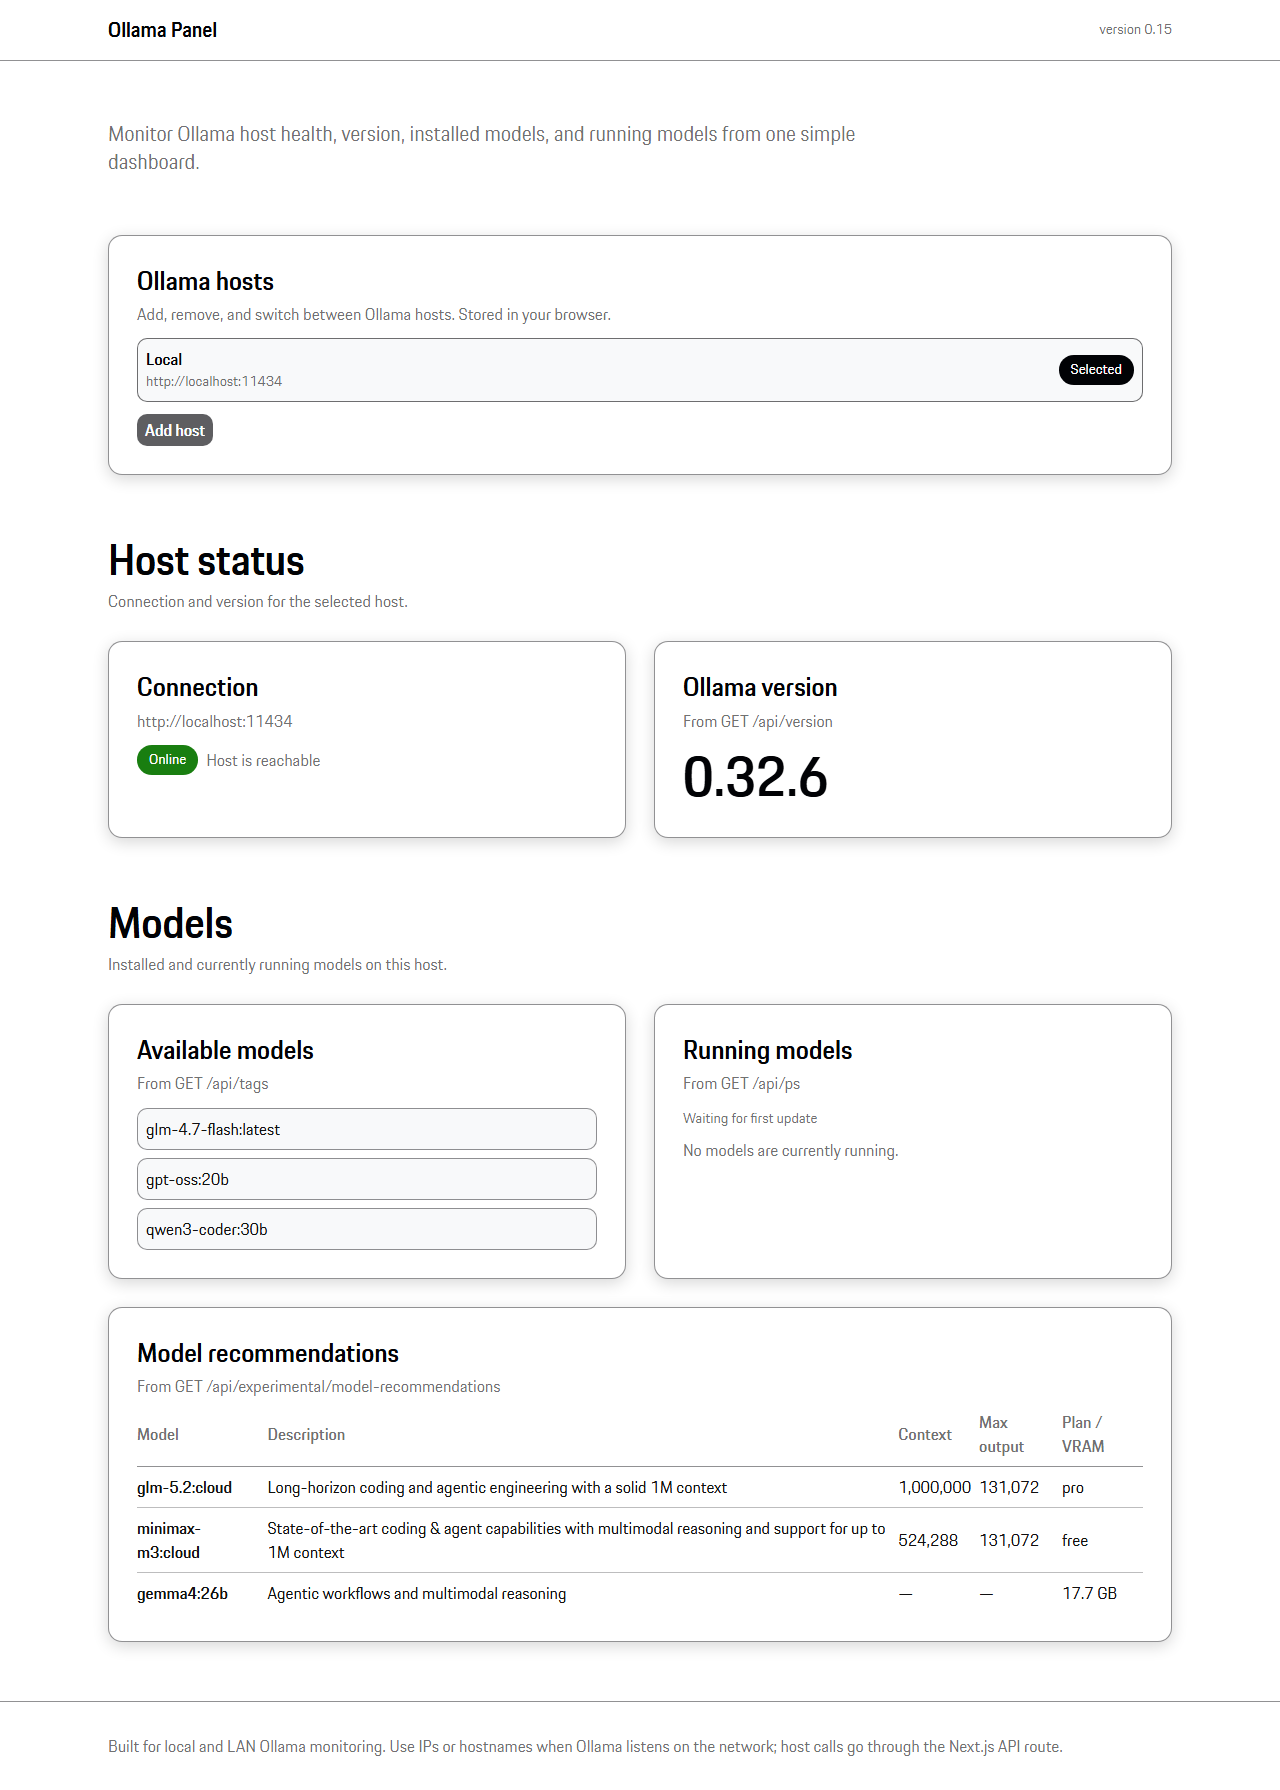
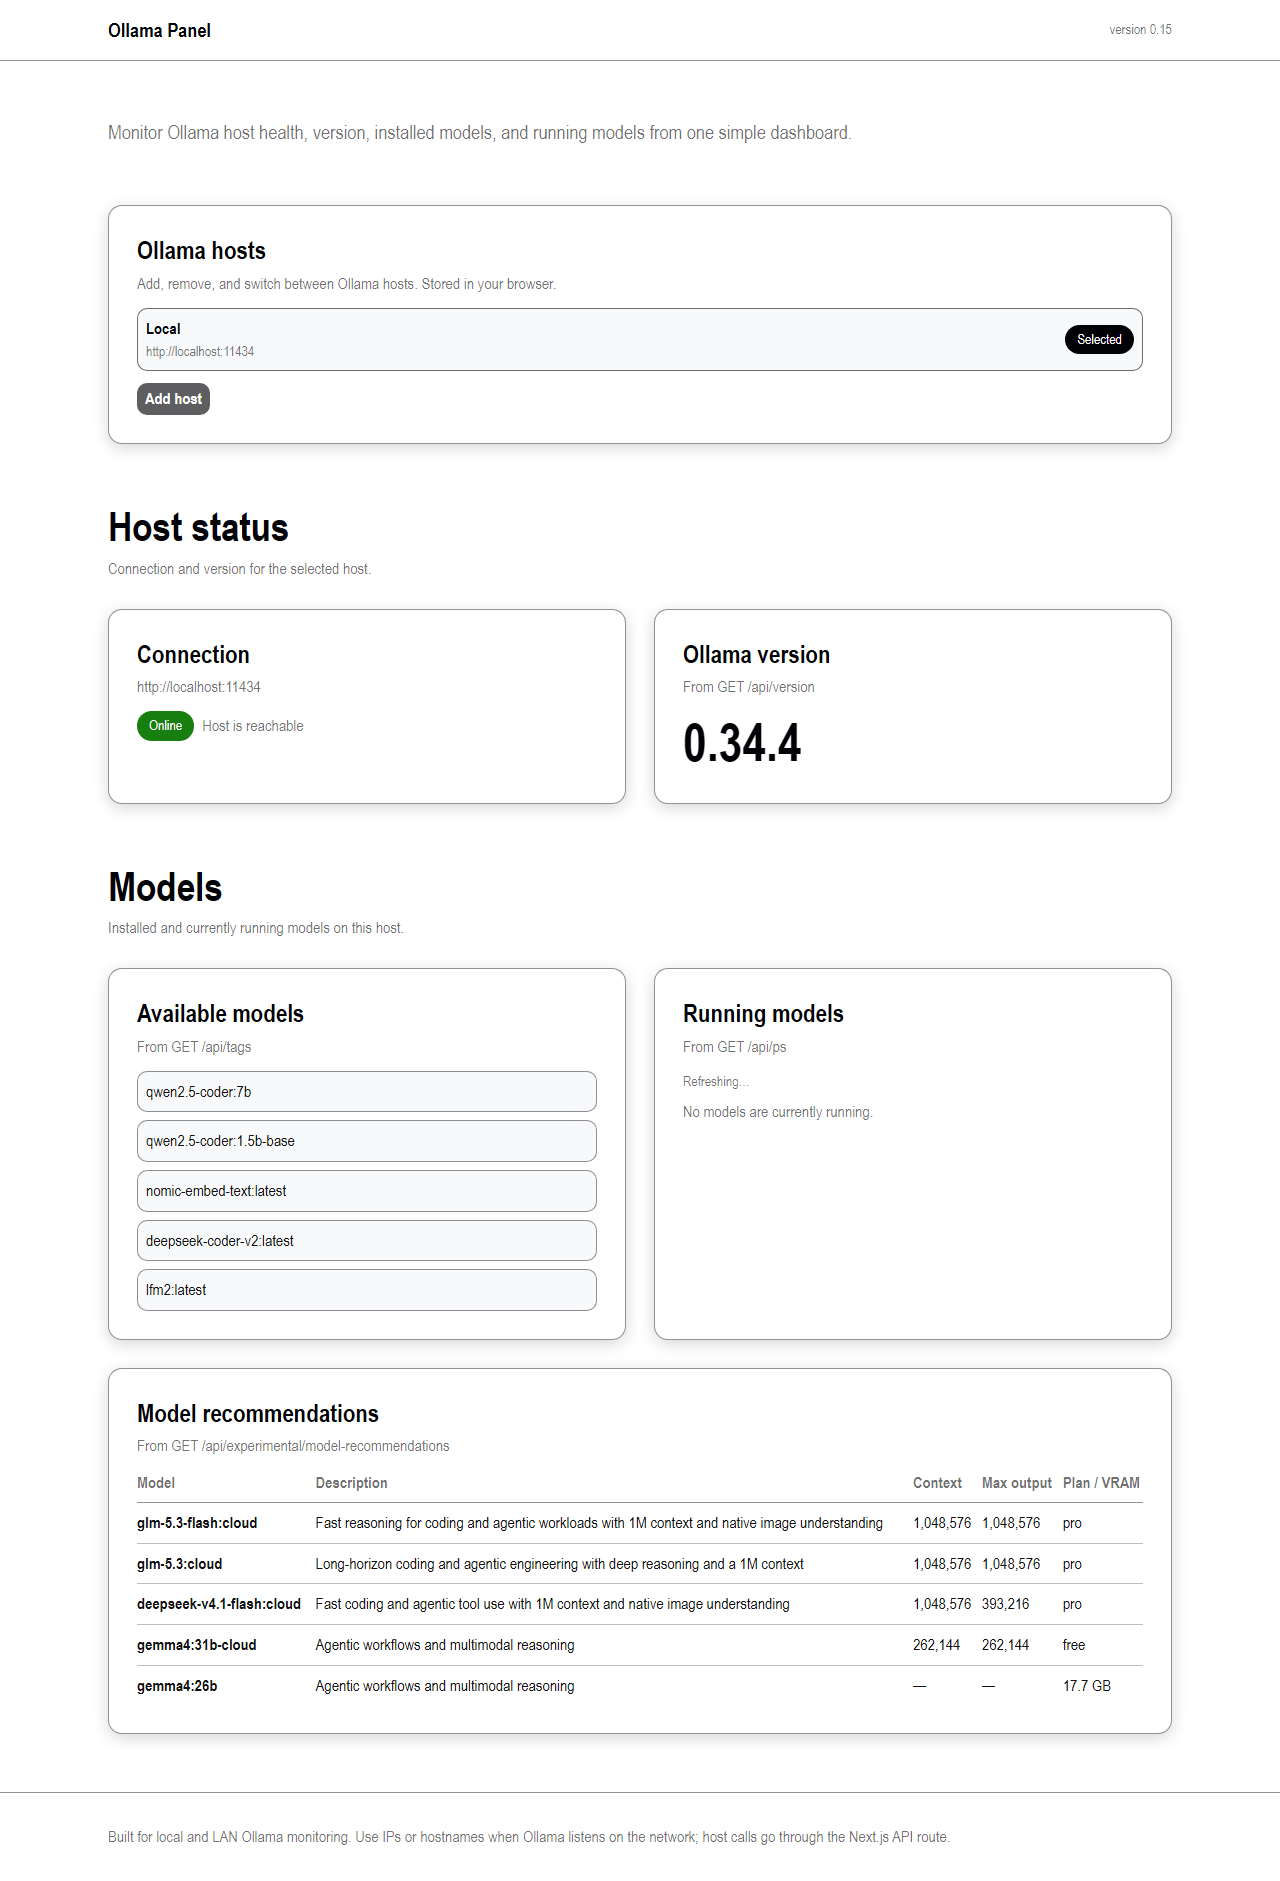
small fix + deleted not used browsers
0.16

diff --git a/components/HostManager.tsx b/components/HostManager.tsx
@@ -214,6 +214,10 @@ export function HostManager({ activeHost }: HostManagerProps) {
                   <PText size="small" weight="semibold">
                     {host.name}
                   </PText>
+
+                <div className="flex-shrink-0 flex-grow-1">
+                </div>
+
                   <PText size="x-small" color="contrast-medium" ellipsis>
                     {host.url}
                   </PText>

diff --git a/playwright.config.ts b/playwright.config.ts
@@ -25,14 +25,6 @@ export default defineConfig({
     {
       name: 'chromium',
       use: { ...devices['Desktop Chrome'] },
-    },
-    {
-      name: 'firefox',
-      use: { ...devices['Desktop Firefox'] },
-    },
-    {
-      name: 'webkit',
-      use: { ...devices['Desktop Safari'] },
-    },
+    }
   ],
 });

diff --git a/TODO.md b/TODO.md
@@ -1,0 +1,14 @@
+## Features
+- add screenshots to docs\screenshots with app version, so it will be possible to track visual changes
+Fixed [ ]
+
+## Bugs
+- New host merged and being displayed as hostname+hosturl, while the default local host diplayed correctly
+Fixed [X] in HostManager.tsx, added div class between host.name and host.url code 
+
+- status [Selected] displayed initially as button with black background color, while after the new selection
+it is just text, without background color.
+Fixed [ ]
+
+- Offline displayed on green background color, instead of red. The issue is related to host selected, seems like bug active only with new hosts. 
+Fixed [ ]
